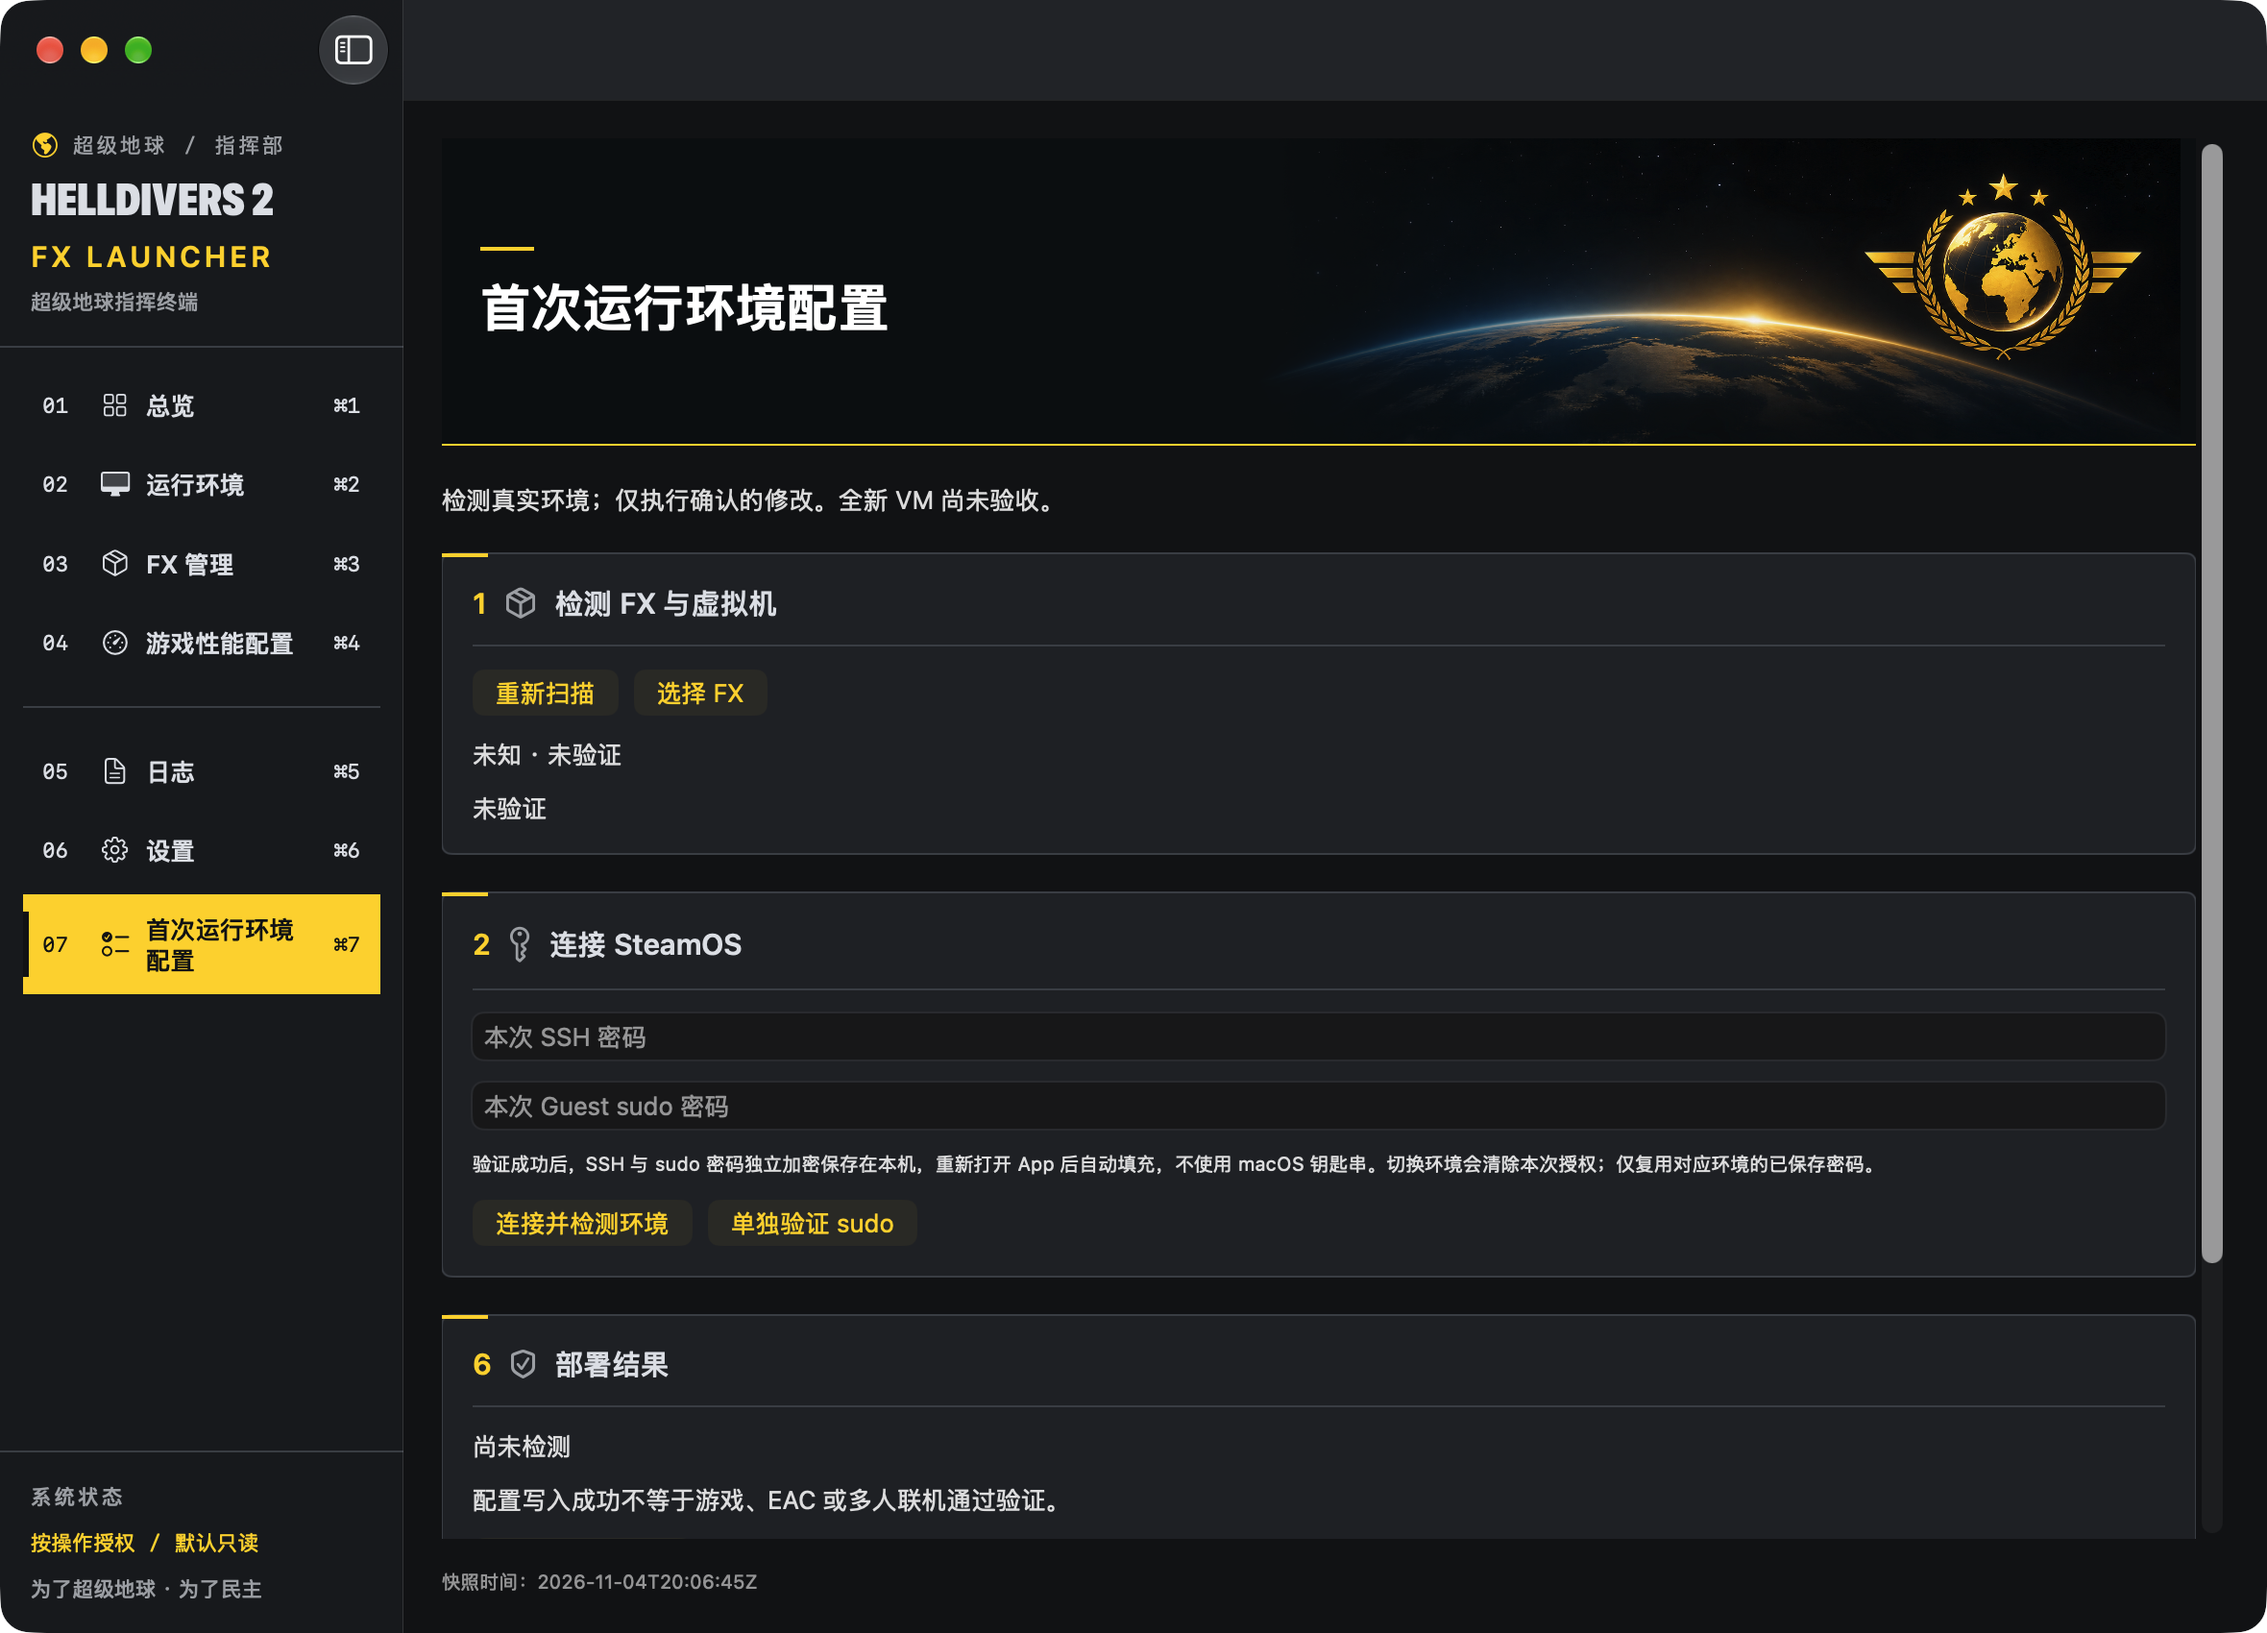
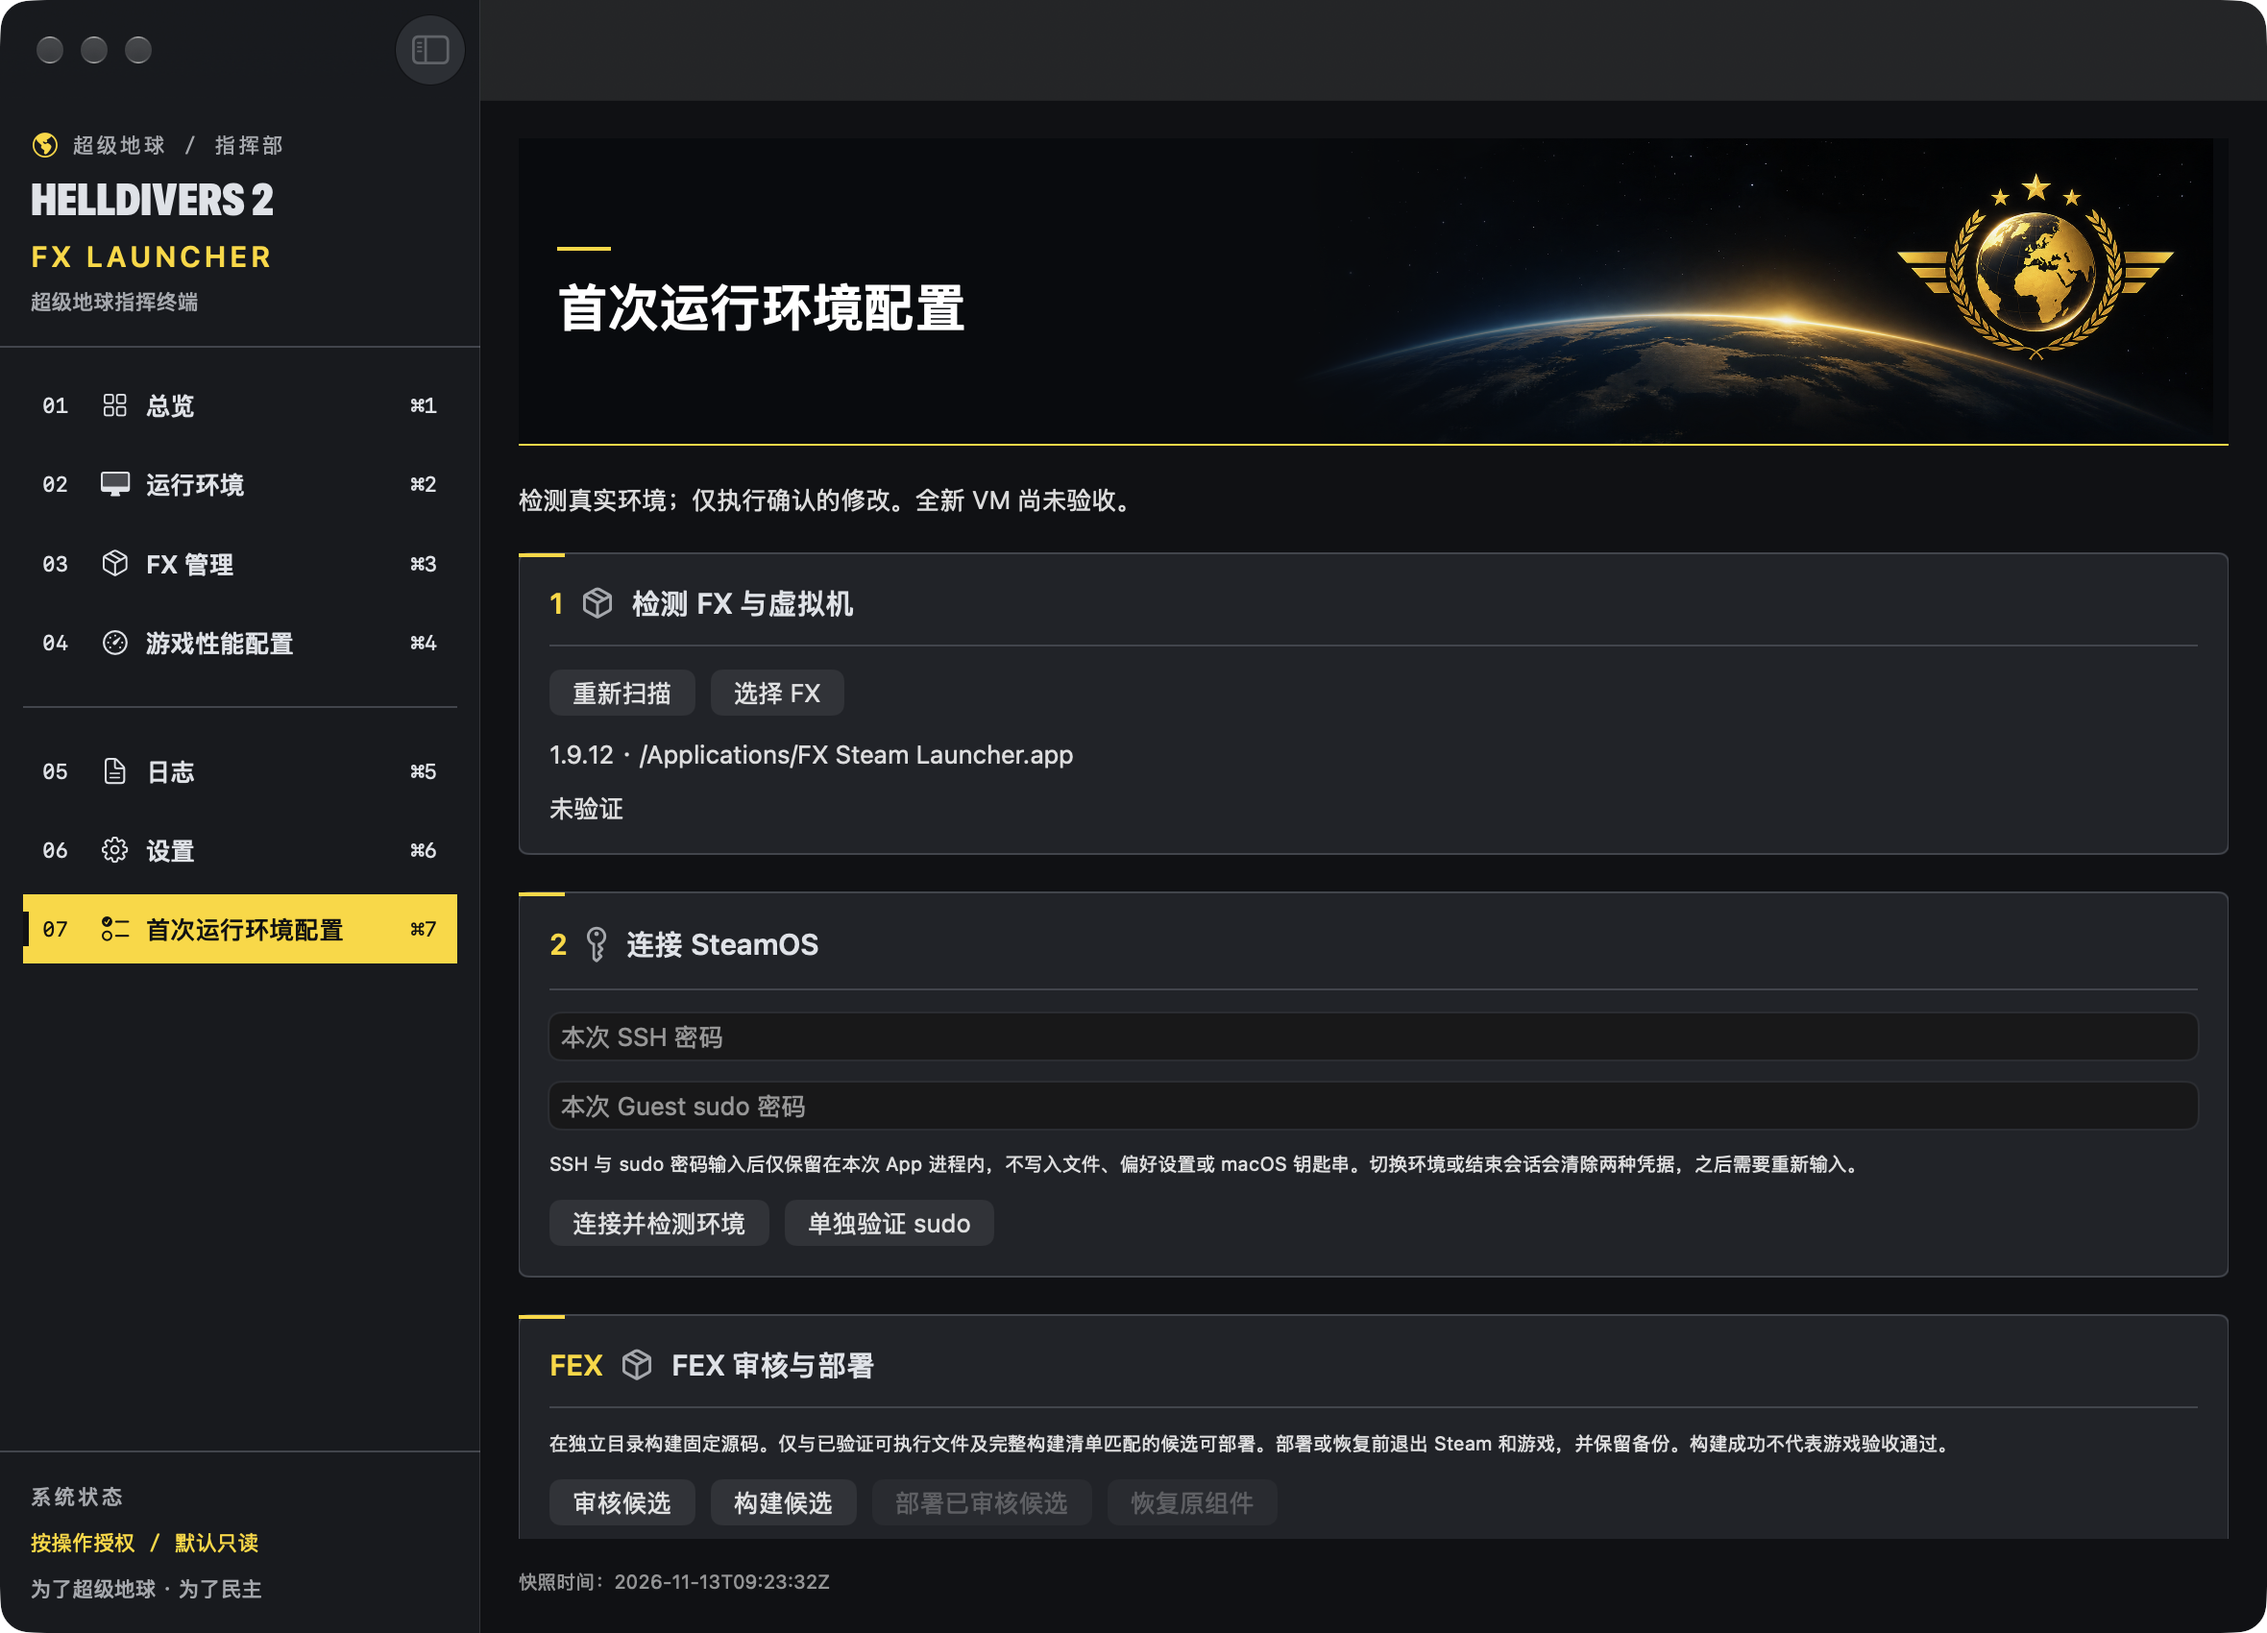
docs: refresh Dashboard and first-run screenshots for main integration

diff --git a/docs/images/README.md b/docs/images/README.md
@@ -39,3 +39,5 @@ Build 2026110410: real isolated Debug windows for zh-CN/en First-Run Setup, Dash
 2026-11-05 SSH settings update: only `en/settings*.png` and `zh-CN/settings*.png` were replaced from the actual dirty Debug candidate (base 6dd08fb, build 2026110501). Visible host, port and user fields reviewed in both languages. Other page captures remain from the prior unchanged layouts. No live SSH or interactive save acceptance.
 
 2026-11-05: FX Manager only recaptured in zh-CN/en from the dirty Debug build2026110505 (base1879f33); both installed1.9.9 copies and the local-test marker are visible. No FX, SSH or game action. Other images retain individual provenance.
+
+2026-11-13: Dashboard and First-Run Setup were recaptured in English and Simplified Chinese from clean Debug build 2026110602 at `8c63609`. The real windows show the current launcher entry and FEX review panel. The capture process disabled credential autoload and performed no Guest actions. Other images retain their individual provenance.

diff --git a/README.md b/README.md
@@ -82,7 +82,7 @@ All seven pages and the performance/update detail viewports were recaptured on 2
 </details>
 
 
-Ten current English screenshots come from the actual integrated Debug App (0.1.0, build 2026110411), covering seven pages, network settings and scrolled settings. Original pixels are unmodified; capture copies isolate preferences and do not connect to or change Guest state. Screenshots do not establish gameplay or installation acceptance. [Capture provenance](docs/images/README.md).
+The Dashboard and First-Run Setup screenshots were refreshed on 2026-11-13 from Debug build 2026110602. The other screenshots retain their original capture dates in the provenance manifest. Original pixels are unmodified; capture copies isolate preferences and do not connect to or change Guest state. Screenshots do not establish gameplay or installation acceptance. [Capture provenance](docs/images/README.md).
 
 <a id="en-features"></a>
 
